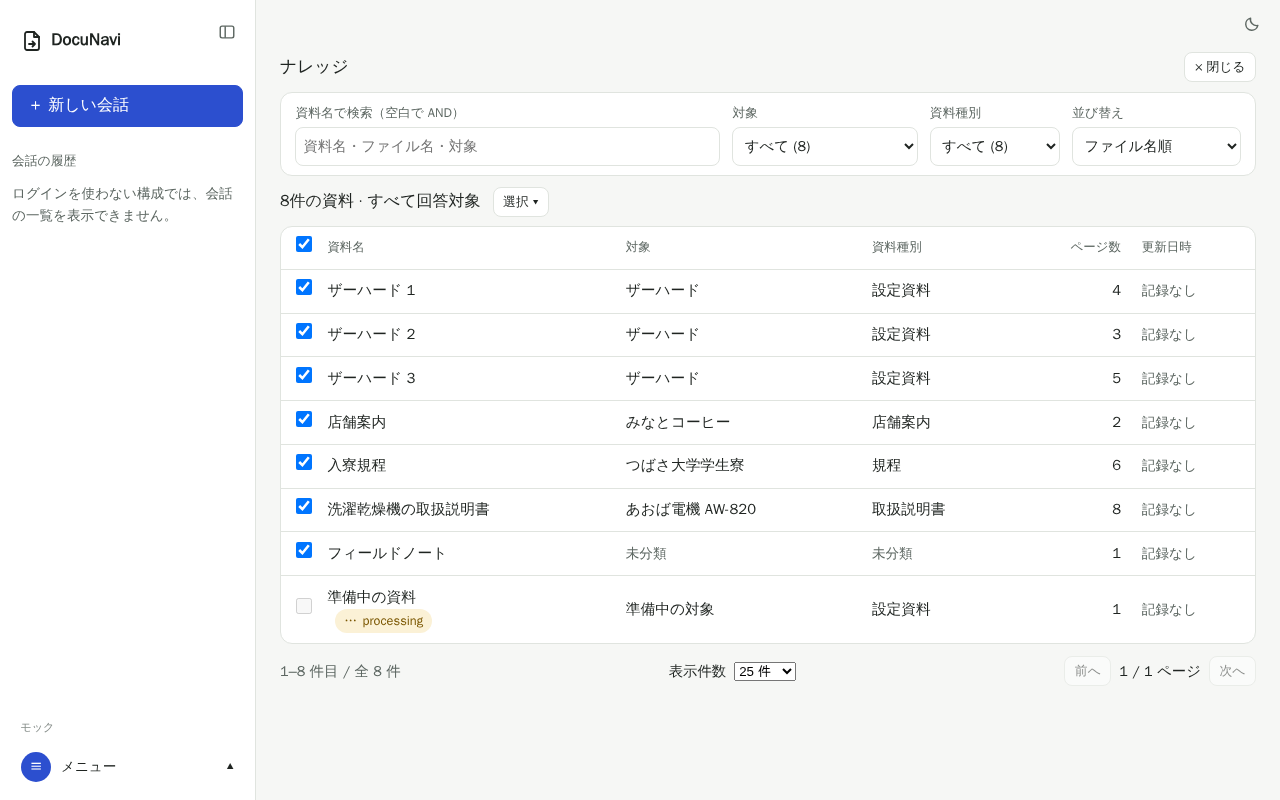
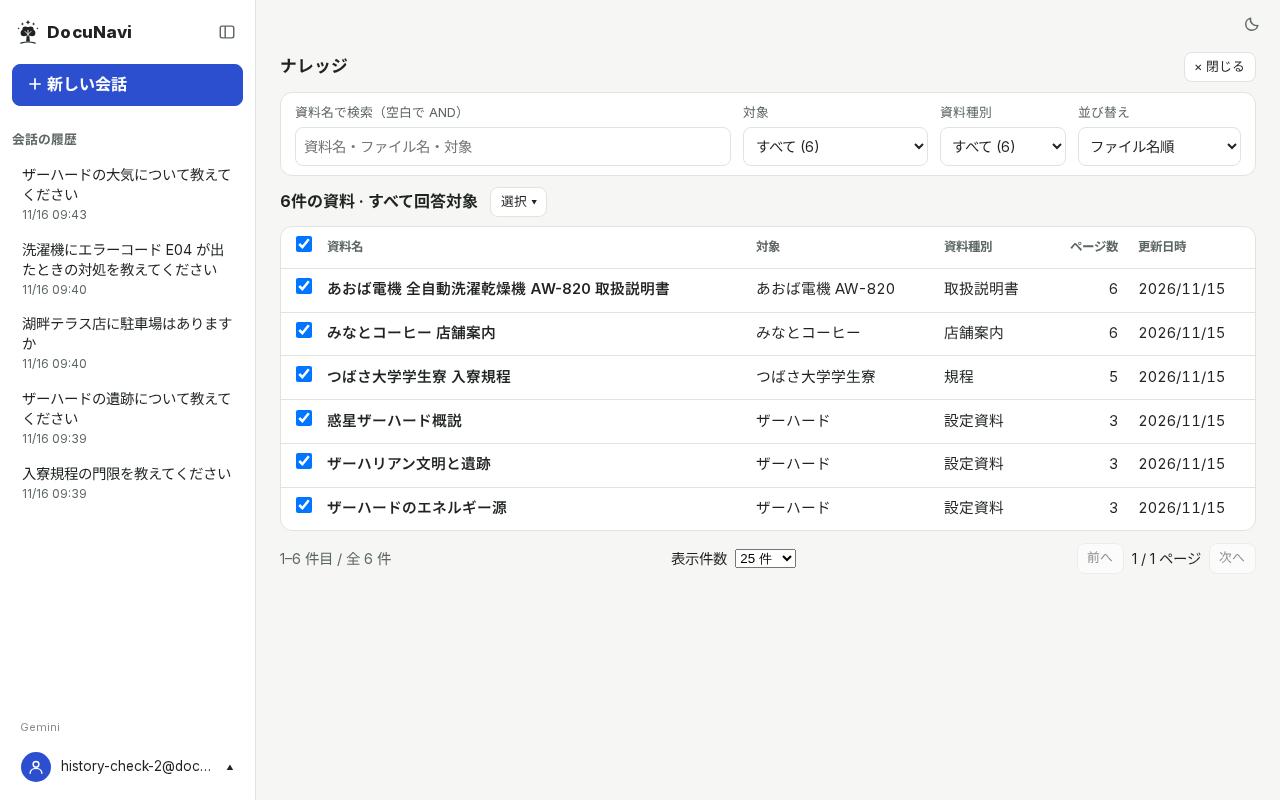
docs(readme): refresh the screenshots with the current UI
Both images are captures of the local stack (2026-11-16): the chat shows
a four-question Zahard conversation with the sources button, follow-up
suggestions, the new logo and five conversations in the sidebar; the
document list now shows the real local documents instead of mock data.
The captions and the citation line describe the sources button instead of
inline [n] markers.

Making the conversations took eight real API calls in total
(gemini-3.1-flash-lite); the cost was not measured. The test user is a
local .invalid address, truncated in the image. No keys or tokens appear.

diff --git a/README.ja.md b/README.ja.md
@@ -7,13 +7,13 @@
 資料（PDF）を根拠に答える RAG チャットボットです（FastAPI、LangGraph、Gemini、Postgres + pgvector、Cloudflare Workers 上の Next.js）。回答には出典の番号が付き、押すと資料が開きます。
 題材の資料（`storage/pdf/`）は架空のものです。
 
-| チャット（出典と、続けて聞く候補つき） | 資料一覧（対象・資料種別で絞り込み、回答に使う資料を選ぶ） |
+| チャット（回答の下に出典、続けて聞く候補、複数回の追加質問と会話の履歴） | 資料一覧（対象・資料種別で絞り込み、回答に使う資料を選ぶ） |
 |---|---|
 | ![チャット画面](docs/images/chat.png) | ![資料一覧](docs/images/documents.png) |
 
 ## 特徴
 
-- **出典つきの回答。** `[n]` から根拠の資料とページを開けます。回答に使う資料を選べます。
+- **出典つきの回答。** 回答の下の「N 件のソース」から、根拠の資料とページを開けます。回答に使う資料を選べます。
 - **測定した検索。** レイアウトを使ったチャンク分割、ハイブリッド検索（BM25 + pgvector）、リランク、GraphRAG。構成ごとの効果は `evals/` で測っています（[docs/search-design.md](docs/search-design.md)）。
 - **ガードレール。** 入力と回答を検査し、ストリーミング中の漏洩も止めます。ルールベースで、プロンプトインジェクションを完全には防ぎません（[docs/guardrails.md](docs/guardrails.md)）。
 - **LLM の不安定さへの対処。** ヘッジ、別モデルへのフォールバック、無料枠が尽きたときの有料キーへの切り替え（[docs/configuration.md](docs/configuration.md)）。

diff --git a/README.md b/README.md
@@ -7,13 +7,13 @@ English | [日本語](README.ja.md)
 DocuNavi is a RAG chatbot that answers questions from PDF documents and cites its sources (FastAPI, LangGraph, Gemini, Postgres + pgvector, Next.js on Cloudflare Workers).
 The sample documents (`storage/pdf/`) are fictional.
 
-| Chat (with citations and follow-up suggestions) | Document list (filter by group and type, choose which documents to use) |
+| Chat (sources under each answer, follow-up suggestions, a multi-turn conversation with history) | Document list (filter by group and type, choose which documents to use) |
 |---|---|
 | ![Chat screen](docs/images/chat.png) | ![Document list](docs/images/documents.png) |
 
 ## Features
 
-- **Answers with citations.** A `[n]` marker opens the source document and page. You choose which documents an answer may use.
+- **Answers with citations.** The "N sources" button under each answer opens the source document and page. You choose which documents an answer may use.
 - **Measured search.** Layout-aware chunking, hybrid search (BM25 + pgvector), reranking and GraphRAG; each configuration is evaluated in `evals/` ([docs/search-design.md](docs/search-design.md)).
 - **Guardrails.** Input and answers are checked, including prompt leaks while streaming. Rule-based, so not a full defense against prompt injection ([docs/guardrails.md](docs/guardrails.md)).
 - **Resilient LLM calls.** Hedged requests, model fallback, and a paid-key switch when the free tier runs out ([docs/configuration.md](docs/configuration.md)).
